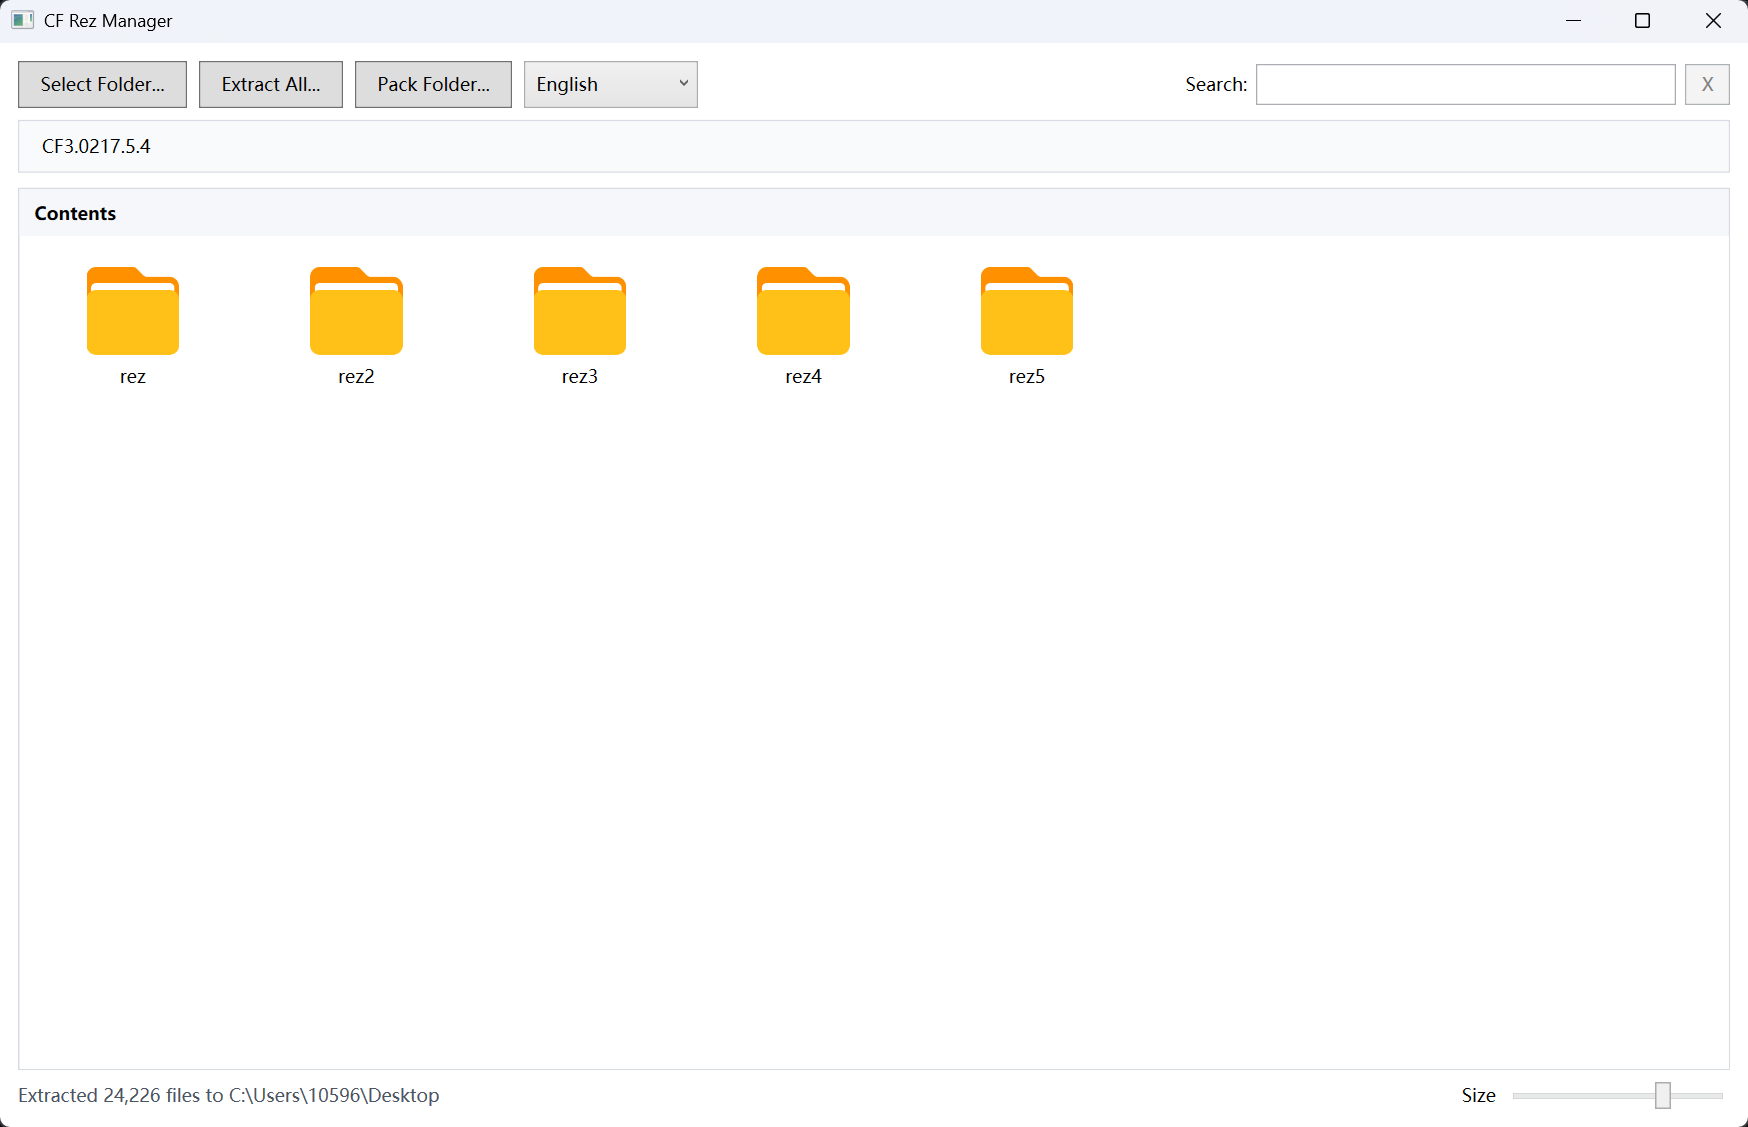
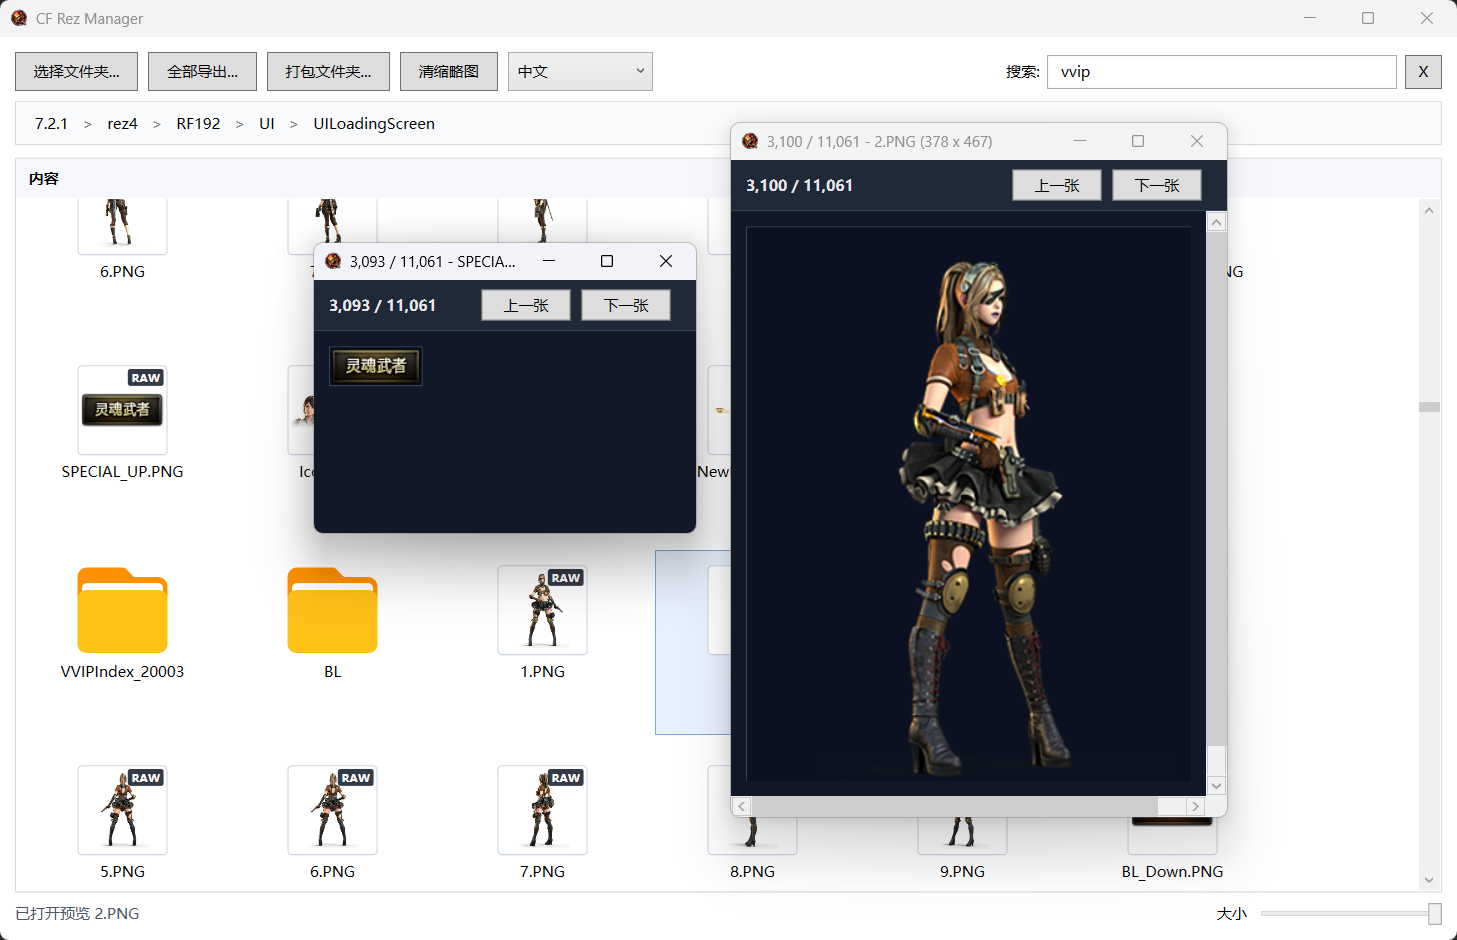
更新说明书

diff --git a/README.en.md b/README.en.md
@@ -1,7 +1,7 @@
 # CF Rez Manager
 
-![Main window](image-1.png)
-![Preview window](image.png)
+![Main window](image.png)
+![Preview window](image-1.png)
 
 CF Rez Manager is a Windows WPF tool for browsing, searching, extracting, and packing LithTech / CrossFire `.rez` archives.
 
@@ -256,6 +256,27 @@ dotnet .\bin\Release\net8.0-windows7.0\CFRezManager.dll --decode-cfg --root "C:\
 
 ## Support The Project
 
-Making this tool takes time and care. If it helps you, a small tip is appreciated.
+<div align="center">
+
+Making this tool takes time and care. If it helps you, a small tip is appreciated. Every bit of support goes back into fixes, compatibility work, and future updates.
 
 ![Support QR code](afc08a3298aeb1fa378e9d89ca34e35a.jpg)
+
+### Thanks To These Supporters
+
+<table>
+  <tr>
+    <td align="center" width="220">
+      <strong>黑猫不是警长</strong><br />
+      <sub>Tip 20</sub>
+    </td>
+    <td align="center" width="220">
+      <strong>KissJoJo</strong><br />
+      <sub>Tip 100</sub>
+    </td>
+  </tr>
+</table>
+
+<sub>Listed in the order the support was received. Thank you for helping this little tool keep moving.</sub>
+
+</div>

diff --git a/README.md b/README.md
@@ -1,7 +1,7 @@
 # CF Rez Manager
 
-![主界面](image-1.png)
-![预览界面](image.png)
+![主界面](image.png)
+![预览界面](image-1.png)
 
 CF Rez Manager 是一个 Windows WPF 工具，用于浏览、搜索、解包和重新打包 LithTech / CrossFire 的 `.rez` 资源包，也可以直接预览扫描目录里的散文件资源。
 
@@ -257,6 +257,27 @@ dotnet .\bin\Release\net8.0-windows7.0\CFRezManager.dll --decode-cfg --root "C:\
 
 ## 制作不易，鼓励一下
 
-如果这个工具帮到了你，可以请我喝杯咖啡。
+<div align="center">
+
+如果这个工具帮到了你，可以请我喝杯咖啡。每一份支持都会变成下一次修复、适配和更新的动力。
 
 ![支持项目二维码](afc08a3298aeb1fa378e9d89ca34e35a.jpg)
+
+### 感谢这些朋友的支持
+
+<table>
+  <tr>
+    <td align="center" width="220">
+      <strong>黑猫不是警长</strong><br />
+      <sub>打赏 20</sub>
+    </td>
+    <td align="center" width="220">
+      <strong>KissJoJo</strong><br />
+      <sub>打赏 100</sub>
+    </td>
+  </tr>
+</table>
+
+<sub>名单按收到支持的时间记录。感谢你们让这个小工具继续往前走。</sub>
+
+</div>